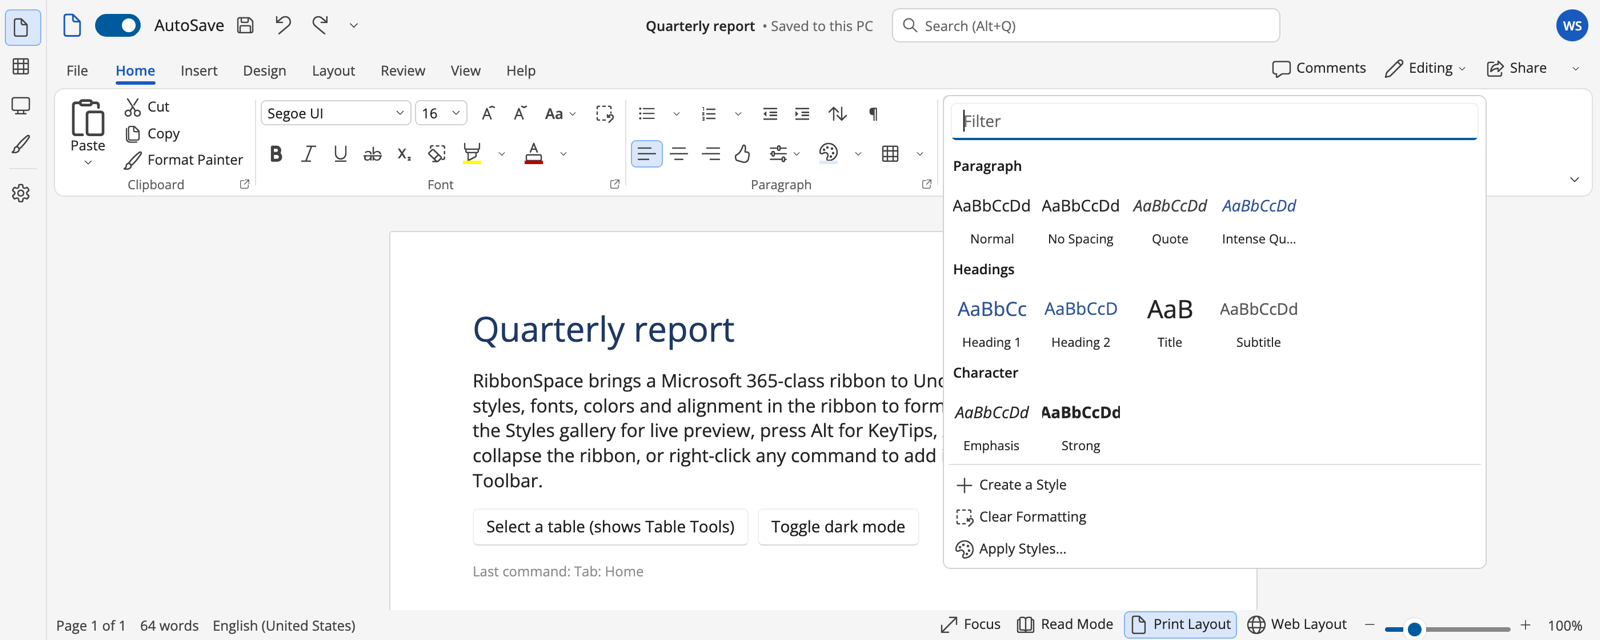
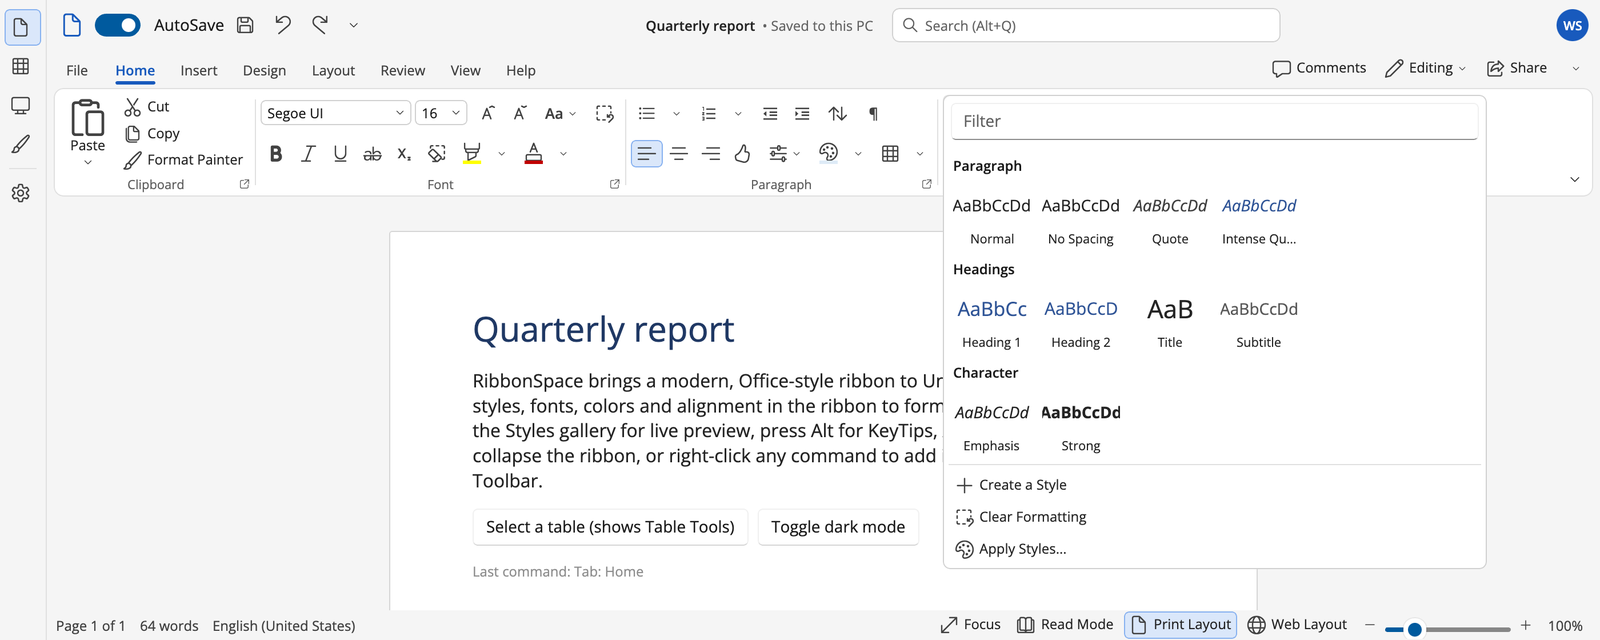
Remove Microsoft 365 references, map remaining model properties, build WinAppSDK with MSBuild
- Replace Microsoft 365 wording in code, docs, sample text and screenshots
- Map tab icons, group ScreenTips, combo DisplayMemberPath, swatch names and
  contextual-group KeyTip / IsEnabled; add per-tab GroupOrder customization
- Refresh search results on programmatic text changes while open
- Build and pack the WinAppSDK target with MSBuild (UNOB0008)

diff --git a/samples/RibbonSpace.Demo/Pages/WordPage.xaml b/samples/RibbonSpace.Demo/Pages/WordPage.xaml
@@ -506,7 +506,7 @@
         <Border x:Name="PageSheet" RequestedTheme="Light" Width="760" MinHeight="760" HorizontalAlignment="Center" VerticalAlignment="Top" Background="White" CornerRadius="2" Padding="72,64" BorderThickness="1" BorderBrush="#20000000">
           <StackPanel Spacing="14">
             <TextBlock x:Name="DocTitle" Text="Quarterly report" FontSize="30" Foreground="#1F3864" />
-            <TextBlock x:Name="DocText" TextWrapping="Wrap" FontSize="16" Foreground="#242424" Text="RibbonSpace brings a Microsoft 365-class ribbon to Uno Platform. Select text styles, fonts, colors and alignment in the ribbon to format this paragraph. Hover the Styles gallery for live preview, press Alt for KeyTips, Alt+Q for search, Ctrl+F1 to collapse the ribbon, or right-click any command to add it to the Quick Access Toolbar." />
+            <TextBlock x:Name="DocText" TextWrapping="Wrap" FontSize="16" Foreground="#242424" Text="RibbonSpace brings a modern, Office-style ribbon to Uno Platform. Select text styles, fonts, colors and alignment in the ribbon to format this paragraph. Hover the Styles gallery for live preview, press Alt for KeyTips, Alt+Q for search, Ctrl+F1 to collapse the ribbon, or right-click any command to add it to the Quick Access Toolbar." />
             <StackPanel Orientation="Horizontal" Spacing="8">
               <Button x:Name="ToggleTable" Content="Select a table (shows Table Tools)" />
               <Button x:Name="ToggleDark" Content="Toggle dark mode" />

diff --git a/samples/RibbonSpace.Demo/Pages/PowerPointPage.xaml b/samples/RibbonSpace.Demo/Pages/PowerPointPage.xaml
@@ -175,7 +175,7 @@
           <Grid Padding="60">
             <StackPanel VerticalAlignment="Center" Spacing="16">
               <TextBlock x:Name="SlideTitle" Text="Introducing RibbonSpace" FontSize="54" FontWeight="SemiBold" Foreground="#262626" />
-              <TextBlock x:Name="SlideSubtitle" Text="A Microsoft 365-class ribbon for Uno Platform" FontSize="28" Foreground="#595959" />
+              <TextBlock x:Name="SlideSubtitle" Text="A modern ribbon for Uno Platform" FontSize="28" Foreground="#595959" />
             </StackPanel>
           </Grid>
         </Border>

diff --git a/samples/RibbonSpace.Demo/Pages/SettingsPage.xaml b/samples/RibbonSpace.Demo/Pages/SettingsPage.xaml
@@ -16,7 +16,7 @@
         </ComboBox>
         <ComboBox x:Name="Palette" Header="Accent palette" Width="280" />
         <ComboBox x:Name="Chrome" Header="Chrome style" Width="280" SelectedIndex="0">
-          <x:String>Neutral (Microsoft 365)</x:String>
+          <x:String>Neutral</x:String>
           <x:String>Colorful (accent title bar)</x:String>
         </ComboBox>
         <ComboBox x:Name="Density" Header="Density" Width="280" SelectedIndex="0">

diff --git a/src/RibbonSpace.Core/Theming/RibbonThemePalette.cs b/src/RibbonSpace.Core/Theming/RibbonThemePalette.cs
@@ -5,12 +5,12 @@ public enum RibbonChromeStyle
 {
     /// <summary>Accent-colored title bar (Office "Colorful").</summary>
     Colorful,
-    /// <summary>Neutral title bar matching the ribbon (Office "White" / modern Microsoft 365).</summary>
+    /// <summary>Neutral title bar matching the ribbon (Office "White" / modern Office look).</summary>
     Neutral,
 }
 
 /// <summary>
-/// Accent palette used to theme a ribbon. Presets mirror the Microsoft 365 application brand colors.
+/// Accent palette used to theme a ribbon. Presets mirror the Office application brand colors.
 /// </summary>
 /// <param name="Name">Display name.</param>
 /// <param name="Accent">Primary accent (selected tab text, focus, checked state, backstage pane).</param>

diff --git a/src/RibbonSpace.Uno/Controls/Ribbon.cs b/src/RibbonSpace.Uno/Controls/Ribbon.cs
@@ -15,7 +15,7 @@ using RibbonSpace.Localization;
 namespace RibbonSpace.Controls;
 
 /// <summary>
-/// Microsoft 365-style ribbon: tab row with application (File) button, contextual tabs and tab-row commands,
+/// Office-style ribbon: tab row with application (File) button, contextual tabs and tab-row commands,
 /// adaptive classic or simplified command area, Quick Access Toolbar, backstage, KeyTips, display options,
 /// customization and persistence. Use declaratively in XAML or bind <see cref="Model"/> for MVVM.
 /// </summary>

diff --git a/src/RibbonSpace.Uno/Controls/RibbonTitleBar.cs b/src/RibbonSpace.Uno/Controls/RibbonTitleBar.cs
@@ -11,7 +11,7 @@ using RibbonSpace.Localization;
 namespace RibbonSpace.Controls;
 
 /// <summary>
-/// Microsoft 365 style title bar: application icon, Quick Access Toolbar (of the linked ribbon), document title,
+/// Office-style title bar: application icon, Quick Access Toolbar (of the linked ribbon), document title,
 /// centered command search and end content (account, share, window buttons area).
 /// </summary>
 public partial class RibbonTitleBar : Control

diff --git a/src/RibbonSpace.Uno/Controls/RibbonSearchBox.cs b/src/RibbonSpace.Uno/Controls/RibbonSearchBox.cs
@@ -336,7 +336,8 @@ public partial class RibbonSearchBox : Control
         }
 
         _ignoredText = null;
-        if (_textBox.FocusState != FocusState.Unfocused)
+        // Typing (focused) or a programmatic change while the results are showing refreshes them.
+        if (_textBox.FocusState != FocusState.Unfocused || IsResultsOpen)
         {
             ShowResults();
         }

diff --git a/docs/research/feature-inventory.md b/docs/research/feature-inventory.md
@@ -1,4 +1,4 @@
-# Feature research: the Space apps and Microsoft 365
+# Feature research: the Space apps and modern Office ribbons
 
 RibbonSpace was extracted from, and designed to replace, the command UI of seventeen Uno Platform applications:
 [VectorSpace](https://github.com/wieslawsoltes/VectorSpace), [TextSpace](https://github.com/wieslawsoltes/TextSpace),
@@ -10,7 +10,7 @@ RibbonSpace was extracted from, and designed to replace, the command UI of seven
 [DataSpace](https://github.com/wieslawsoltes/DataSpace), [NoteSpace](https://github.com/wieslawsoltes/NoteSpace),
 [CadSpace](https://github.com/wieslawsoltes/CadSpace), [GitSpace](https://github.com/wieslawsoltes/GitSpace) and
 [ControlSpace](https://github.com/wieslawsoltes/ControlSpace). The feature set was then completed against Word,
-Excel and PowerPoint for Microsoft 365, and against two earlier Avalonia ribbons by the same author (RibbonControl and Ribbon).
+Excel and PowerPoint, and against two earlier Avalonia ribbons by the same author (RibbonControl and Ribbon).
 
 ## 1. What the apps had
 
@@ -67,7 +67,7 @@ Problems common to all of them:
 | 19 | Command search ("Tell me", Alt+Q) | TextSpace, GridSpace, PresentationSpace, CadSpace | `RibbonSearchBox`, `Ribbon.Search`, `RibbonSearchEngine` (fuzzy, acronyms, recents) |
 | 20 | Command palette | CodeSpace, VectorSpace, LabSpace | `RibbonCommandPalette` |
 | 21 | Collapse / pin / display options / full screen | DataSpace, CadSpace, PresentationSpace | `VisibilityMode` (AlwaysShow / TabsOnly popup / FullScreen), Ctrl+F1, double-click, display-options menu |
-| 22 | Single-line simplified ribbon with overflow | Office 365 | `DisplayMode=Simplified`, `RibbonSimplifiedLayout`, "More options" linked-copy overflow |
+| 22 | Single-line simplified ribbon with overflow | Office | `DisplayMode=Simplified`, `RibbonSimplifiedLayout`, "More options" linked-copy overflow |
 | 23 | KeyTips | missing everywhere | Alt / F10, multi-level, multi-letter, collision-free generation, popups, backstage |
 | 24 | String-id command routing (existing apps) and MVVM `ICommand` | all | `ItemInvoked` (id + parameter), `CommandId` + `RibbonCommandCatalog`, `ICommand` everywhere |
 | 25 | Command state by id (enabled / checked) | DataSpace | `Ribbon.SetCommandEnabled/Checked`, catalog descriptors |
@@ -85,9 +85,9 @@ Problems common to all of them:
 | 37 | Localization | missing everywhere | `RibbonStrings` (en, de, fr, es, pl; extensible) |
 | 38 | Vector icons independent of platform fonts | CadSpace, GridSpace (Skia icons) | `RibbonIconPresenter`: glyph, path data, image, `RibbonIcon`, `IconSource`, text |
 
-## 3. Microsoft 365 features and their equivalents
+## 3. Office ribbon features and their equivalents
 
-| Microsoft 365 | RibbonSpace |
+| Office | RibbonSpace |
 |---|---|
 | Rounded, floating command bar card on a neutral canvas (2023 visual refresh) | Default template (`RibbonCommandBarCornerRadius`, neutral chrome) |
 | Colourful title bar theme | `RibbonTheme.ApplyChromeStyle(RibbonChromeStyle.Colorful)` |

diff --git a/README.md b/README.md
@@ -5,7 +5,7 @@
 <h1 align="center">RibbonSpace</h1>
 
 <p align="center">
-  <b>A Microsoft 365-class Ribbon for Uno Platform.</b><br/>
+  <b>A modern, Office-style Ribbon for Uno Platform.</b><br/>
   Classic and simplified layouts, adaptive resizing, contextual tabs, backstage, Quick Access Toolbar, KeyTips,
   galleries with live preview, Office color pickers, ScreenTips, command search, customization, toolbars and full MVVM.
 </p>
@@ -22,7 +22,7 @@
 
 RibbonSpace is the shared command UI for the Uno "Space" applications (TextSpace, GridSpace, PresentationSpace, NoteSpace,
 DataSpace, CadSpace, and ImageSpace, VectorSpace and the other toolbar-based apps). It was designed after studying all seventeen
-of them and Word, Excel and PowerPoint for Microsoft 365 ([research](https://github.com/wieslawsoltes/RibbonSpace/blob/main/docs/research/feature-inventory.md)).
+of them and modern Word, Excel and PowerPoint ([research](https://github.com/wieslawsoltes/RibbonSpace/blob/main/docs/research/feature-inventory.md)).
 
 ## Highlights
 
@@ -43,7 +43,7 @@ of them and Word, Excel and PowerPoint for Microsoft 365 ([research](https://git
 | **Toolbars** | Horizontal / vertical / two-column tool palettes with "⋯" overflow, tool option bars, a classic menu bar. |
 | **MVVM** | Bind a `RibbonModel`. Everything is generated and **two-way synchronized**; string-id routing via `ItemInvoked`, `ICommand`, or a command catalog. |
 | **Customization and state** | Office "Customize the Ribbon / QAT" dialog, hide / rename / reorder, custom tabs and groups, import / export, versioned AOT-safe JSON state, plugin merging. |
-| **Theming** | Lookless templates; Light / Dark / HighContrast; 11 Microsoft 365 palettes plus custom accents, applied live; Colorful or Neutral chrome; Compact / Comfortable / Touch density; fully custom metrics. |
+| **Theming** | Lookless templates; Light / Dark / HighContrast; 11 application palettes plus custom accents, applied live; Colorful or Neutral chrome; Compact / Comfortable / Touch density; fully custom metrics. |
 | **Quality** | Accessibility peers and stable automation ids, localization (en, de, fr, es, pl), RTL, 91 unit tests and 64 runtime UI tests, trimming / AOT friendly. |
 
 <table>
@@ -175,6 +175,8 @@ dotnet run --project tests/RibbonSpace.Uno.RuntimeTests -f net10.0-desktop   # r
 
 Requirements: .NET 10 SDK, and Uno.Sdk 6.7 (resolved from `global.json`). Building for WebAssembly needs the
 `wasm-tools` workload, and building every target needs `android` and `ios` too (`-p:RibbonSpaceAllTargets=true`).
+On Windows that also adds the WinAppSDK target, which must be built with Visual Studio's `msbuild /restore`
+rather than `dotnet build`.
 
 ## License
 

diff --git a/docs/controls.md b/docs/controls.md
@@ -35,7 +35,7 @@ Methods: `ApplyLayout(RibbonItemLayout)`, `IRibbonItem.CreateLinkedCopy()`, `IRi
 
 *Base:* `Control`
 
-Microsoft 365-style ribbon: tab row with application (File) button, contextual tabs and tab-row commands, adaptive classic or simplified command area, Quick Access Toolbar, backstage, KeyTips, display options, customization and persistence. Use declaratively in XAML or bind `Model` for MVVM.
+Office-style ribbon: tab row with application (File) button, contextual tabs and tab-row commands, adaptive classic or simplified command area, Quick Access Toolbar, backstage, KeyTips, display options, customization and persistence. Use declaratively in XAML or bind `Model` for MVVM.
 
 | Member | Kind | Type | Description |
 |---|---|---|---|
@@ -655,7 +655,7 @@ Microsoft Search style command search box ("Search (Alt+Q)") for the title bar o
 
 *Base:* `Control`
 
-Microsoft 365 style title bar: application icon, Quick Access Toolbar (of the linked ribbon), document title, centered command search and end content (account, share, window buttons area).
+Office-style title bar: application icon, Quick Access Toolbar (of the linked ribbon), document title, centered command search and end content (account, share, window buttons area).
 
 | Member | Kind | Type | Description |
 |---|---|---|---|

diff --git a/docs/index.md b/docs/index.md
@@ -1,6 +1,6 @@
 # RibbonSpace documentation
 
-RibbonSpace provides a Microsoft 365-class ribbon, plus toolbars, a title bar, a status bar and menus, for
+RibbonSpace provides a modern, Office-style ribbon, plus toolbars, a title bar, a status bar and menus, for
 [Uno Platform](https://platform.uno) on Windows, macOS, Linux, WebAssembly, iOS and Android.
 
 | Guide | Contents |
@@ -26,4 +26,4 @@ RibbonSpace provides a Microsoft 365-class ribbon, plus toolbars, a title bar, a
 | [Migrating the Space apps](migration.md) | Mapping each app's hand-written ribbon to RibbonSpace |
 | [Testing](testing.md) | Unit tests, runtime UI tests, screenshot automation |
 | [Releasing](releasing.md) | Versioning, CI, NuGet Trusted Publishing |
-| [Feature research](research/feature-inventory.md) | Analysis of the 17 apps and Microsoft 365 |
+| [Feature research](research/feature-inventory.md) | Analysis of the 17 apps and modern Office ribbons |

diff --git a/CHANGELOG.md b/CHANGELOG.md
@@ -14,7 +14,7 @@ All notable changes to this project are documented here. The format follows
   - KeyTip assignment and navigation
   - ranked command search
   - versioned, source-generated state JSON and customization model
-  - Office colour palettes with shade generation, and Microsoft 365 accent palettes
+  - Office colour palettes with shade generation, and application accent palettes (Word, Excel, PowerPoint, ...)
   - localization (en, de, fr, es, pl)
   - model merging
 - `RibbonSpace.Uno` ribbon:
